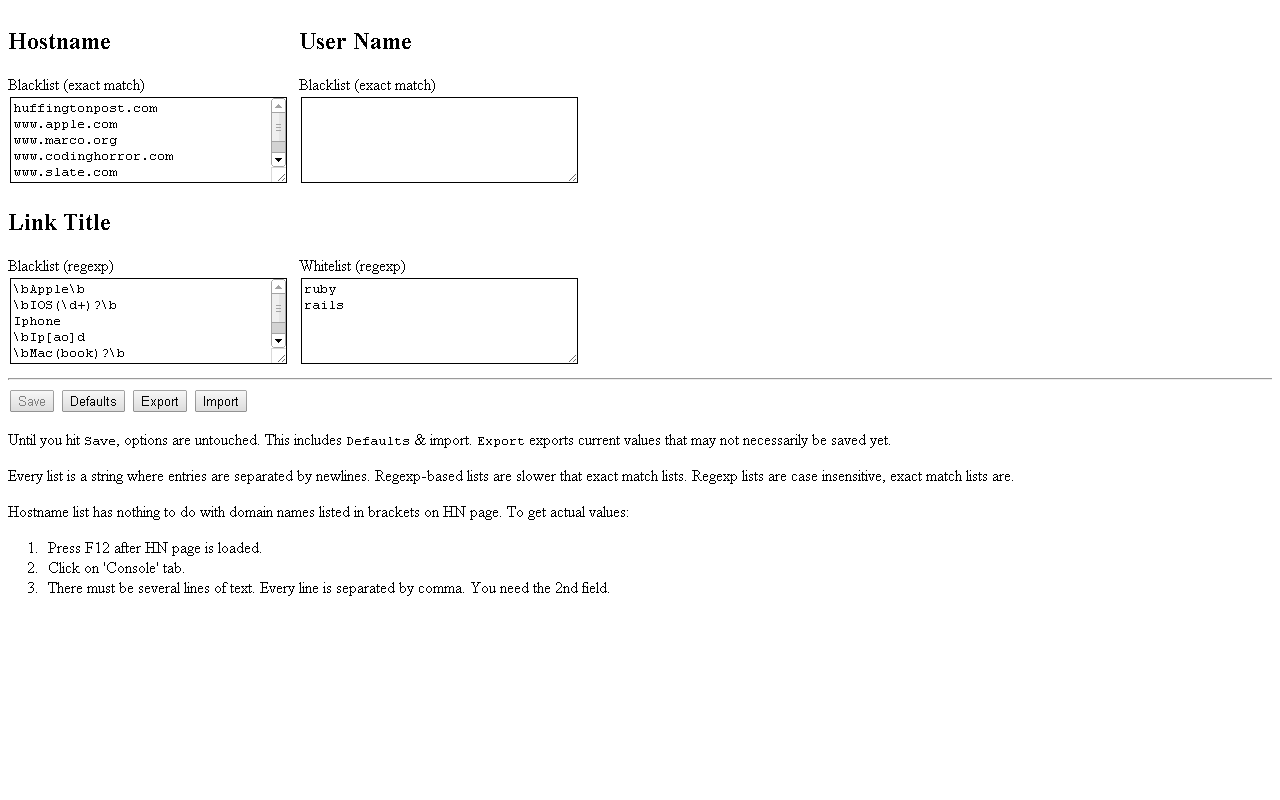
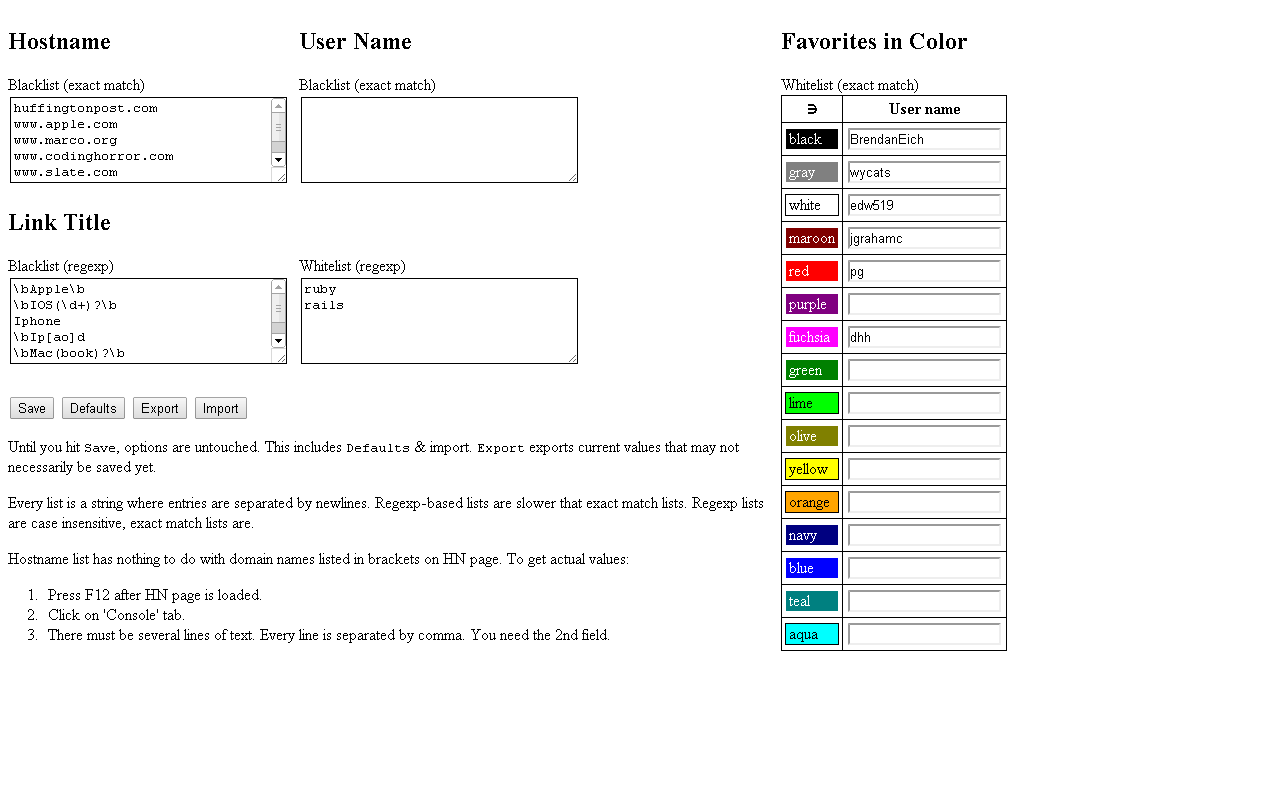
update docs

diff --git a/doc/README.md b/doc/README.md
@@ -8,6 +8,27 @@ http://news.ycombinator.com.
 * __Collapse uninteresting links__ via title, host name or user name filters.
 * Collapse/expand comments.
 * __Automatically collapse all read comments__ & jump to 1st unread one.
+* Navigation window with favorite users. 2nd column shows a number of
+  'new' user's comments, 3rd column shows a total number of comments.
+
+  <table border="1">
+  <tr>
+  <th>Click with</th>
+  <th>On column</th>
+  <th>To do this</th>
+  </tr>
+  <tr>
+  <td><kbd>Button1</kbd></td>
+  <td>1</td>
+  <td>Jump to next user's comment</td>
+  </tr>
+  <tr>
+  <td><kbd>Button1</kbd></td>
+  <td>2</td>
+  <td>Jump to the next expanded user's comment</td>
+  </tr>
+  </table>
+
 * Keyboard navigation in comments pages.
 
   <table border="1">
@@ -33,11 +54,11 @@ http://news.ycombinator.com.
   </tr>
   <tr>
   <td><kbd>l</kbd></td>
-  <td>Jump to next user's comment</td>
+  <td>Jump to the next user's comment</td>
   </tr>
   <tr>
   <td><kbd>h</kbd></td>
-  <td>Jump to previous user's comment</td>
+  <td>Jump to the previous user's comment</td>
   </tr>
   <tr>
   <td><kbd>.</kbd></td>
@@ -62,6 +83,10 @@ http://news.ycombinator.com.
   <tr>
   <td><kbd>{</kbd></td>
   <td>Jump to the previous comment on the same level</td>
+  </tr>
+  <tr>
+  <td><kbd>c</kbd></td>
+  <td>Show/hide favorites window</td>
   </tr>
   </table>
 
